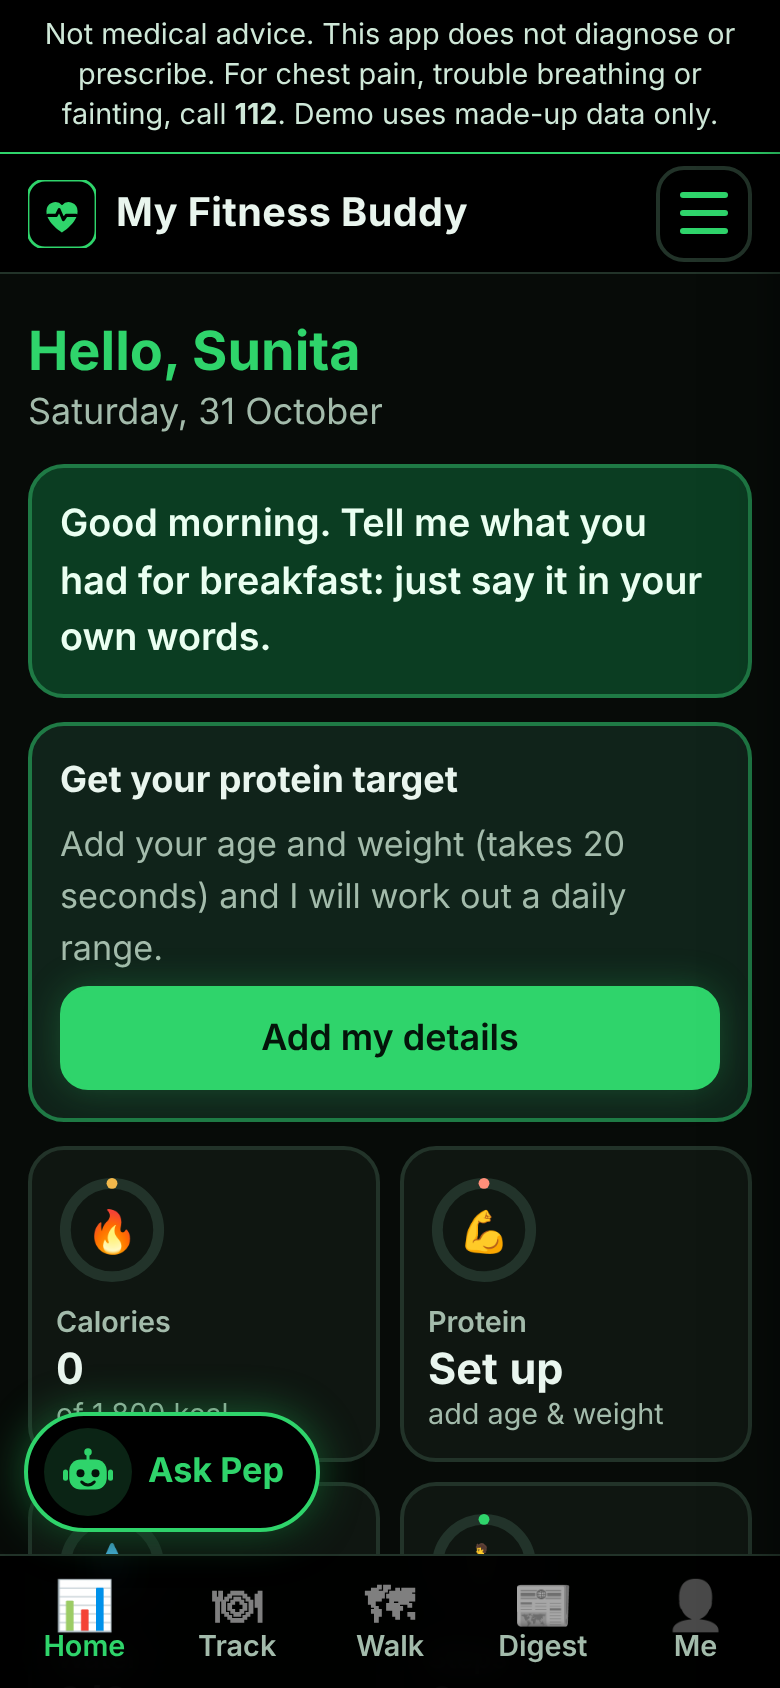
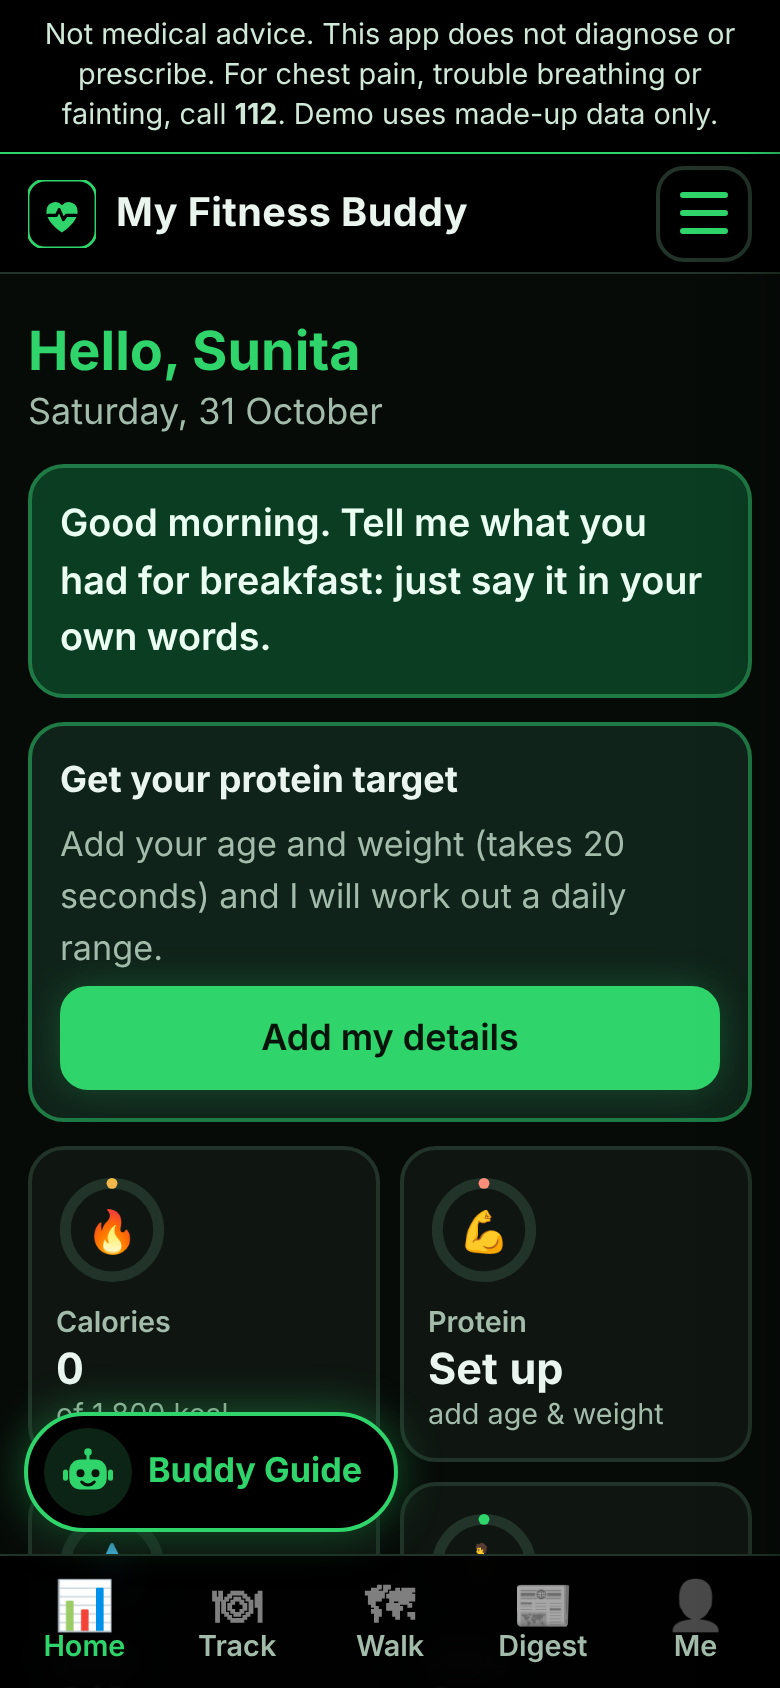
Rename chatbot to Buddy Guide
Claude-Session: https://claude.ai/code/session_01KefykX8PCZb4duXx1vCz83

Changed region(s): [[0.1846, 0.8318, 0.5231, 0.9242]]

diff --git a/index.html b/index.html
@@ -5,7 +5,7 @@
 <meta name="theme-color" content="#000000">
 <meta name="viewport" content="width=device-width,initial-scale=1">
 <title>My Fitness Buddy: your daily health companion</title>
-<meta name="description" content="Say your day in your own words. My Fitness Buddy logs it, adapts your walking goal, tracks steps, water, calories and protein, and nudges you gently. Chat with Pep, your AI health assistant.">
+<meta name="description" content="Say your day in your own words. My Fitness Buddy logs it, adapts your walking goal, tracks steps, water, calories and protein, and nudges you gently. Chat with Buddy Guide, your AI health assistant.">
 <link rel="stylesheet" href="vendor/leaflet/leaflet.css">
 <link rel="stylesheet" href="style.css">
 </head>
@@ -91,7 +91,7 @@
         <button id="q-water" type="button"><span>💧</span>+1 glass</button>
         <button id="q-steps" type="button"><span>🚶</span>+1,000 steps</button>
         <button id="q-log" type="button"><span>🍽</span>Log food</button>
-        <button id="q-ask" type="button"><span>🤖</span>Ask Pep</button>
+        <button id="q-ask" type="button"><span>🤖</span>Ask Guide</button>
       </section>
 
       <button class="card rewardtile" id="rewardcard" data-go="rewards" type="button"></button>
@@ -306,14 +306,14 @@
   <button data-go="me" type="button"><i>👤</i><span>Me</span></button>
 </nav>
 
-<button id="chat-fab" class="fab" type="button" aria-label="Open Pep, your AI health assistant" aria-expanded="false" aria-controls="chatpanel" hidden>
-  <span class="botlogo"><svg viewBox="0 0 48 48" aria-hidden="true" focusable="false"><rect x="4" y="22" width="4" height="9" rx="2" fill="#2fd46b"/><rect x="40" y="22" width="4" height="9" rx="2" fill="#2fd46b"/><path d="M24 11v3" stroke="#2fd46b" stroke-width="2.4" stroke-linecap="round"/><circle cx="24" cy="8" r="3" fill="#2fd46b"/><rect x="9" y="14" width="30" height="24" rx="9" fill="#2fd46b"/><circle cx="18" cy="25" r="3.2" fill="#04140a"/><circle cx="30" cy="25" r="3.2" fill="#04140a"/><path d="M19 32c1.4 1.6 3.2 2.4 5 2.4s3.6-.8 5-2.4" stroke="#04140a" stroke-width="2.4" fill="none" stroke-linecap="round"/></svg></span><span class="faglabel">Ask Pep</span>
+<button id="chat-fab" class="fab" type="button" aria-label="Open Buddy Guide, your AI health assistant" aria-expanded="false" aria-controls="chatpanel" hidden>
+  <span class="botlogo"><svg viewBox="0 0 48 48" aria-hidden="true" focusable="false"><rect x="4" y="22" width="4" height="9" rx="2" fill="#2fd46b"/><rect x="40" y="22" width="4" height="9" rx="2" fill="#2fd46b"/><path d="M24 11v3" stroke="#2fd46b" stroke-width="2.4" stroke-linecap="round"/><circle cx="24" cy="8" r="3" fill="#2fd46b"/><rect x="9" y="14" width="30" height="24" rx="9" fill="#2fd46b"/><circle cx="18" cy="25" r="3.2" fill="#04140a"/><circle cx="30" cy="25" r="3.2" fill="#04140a"/><path d="M19 32c1.4 1.6 3.2 2.4 5 2.4s3.6-.8 5-2.4" stroke="#04140a" stroke-width="2.4" fill="none" stroke-linecap="round"/></svg></span><span class="faglabel">Buddy Guide</span>
 </button>
 
 <section id="chatpanel" class="chatpanel" role="dialog" aria-modal="false" aria-labelledby="h-chat" hidden>
   <header class="cphead">
     <span class="botlogo big"><svg viewBox="0 0 48 48" aria-hidden="true" focusable="false"><rect x="4" y="22" width="4" height="9" rx="2" fill="#2fd46b"/><rect x="40" y="22" width="4" height="9" rx="2" fill="#2fd46b"/><path d="M24 11v3" stroke="#2fd46b" stroke-width="2.4" stroke-linecap="round"/><circle cx="24" cy="8" r="3" fill="#2fd46b"/><rect x="9" y="14" width="30" height="24" rx="9" fill="#2fd46b"/><circle cx="18" cy="25" r="3.2" fill="#04140a"/><circle cx="30" cy="25" r="3.2" fill="#04140a"/><path d="M19 32c1.4 1.6 3.2 2.4 5 2.4s3.6-.8 5-2.4" stroke="#04140a" stroke-width="2.4" fill="none" stroke-linecap="round"/></svg></span>
-    <div class="cptitle"><h2 id="h-chat">Pep <span class="role">AI health assistant</span></h2><span class="cpsub" id="cp-sub">Demo mode</span></div>
+    <div class="cptitle"><h2 id="h-chat">Buddy Guide <span class="role">AI health assistant</span></h2><span class="cpsub" id="cp-sub">Demo mode</span></div>
     <button id="chat-clear" class="ghost mini" type="button">Clear</button>
     <button id="chat-close" class="mini" type="button" aria-label="Close assistant">✕</button>
   </header>

diff --git a/api/ask.js b/api/ask.js
@@ -4,7 +4,7 @@
 const E = require('../engine.js');
 const MODEL = process.env.CLAUDE_MODEL || 'claude-haiku-5-5';
 
-const SYSTEM = `You are Pep, the friendly question-answering helper inside "My Fitness Buddy", a daily health-habit app for older adults.
+const SYSTEM = `You are Buddy Guide, the friendly question-answering helper inside "My Fitness Buddy", a daily health-habit app for older adults.
 Scope: water, walking (steps, distance, minutes), calories and protein logged today (always rough ranges, never exact; if no protein_target_g is available say the profile is incomplete), simple food/portion questions, and the person's own day. Use the tools to read the person's data whenever a question is about THEIR day, goal or progress; never guess their numbers.
 HARD RULES: never diagnose or name a disease they might have; never advise on medicines, insulin or doses; never say a symptom is harmless; for medical or condition-specific questions say you cannot advise and suggest their doctor or a dietitian; any emergency sign (chest pain, trouble breathing, fainting, one-sided weakness, severe bleeding) means: call 112 now.
 Style: plain English, at most 3 short sentences, no lists, no emoji, no lectures. If you do not know, say so briefly.`;

diff --git a/style.css b/style.css
@@ -175,7 +175,7 @@ select{width:100%;font:inherit;padding:12px;border:2px solid var(--line);border-
 .cptitle{flex:1;min-width:0}.cptitle h2{margin:0;font-size:1.05rem;line-height:1.2}.cpsub{display:block;font-size:.8rem;color:var(--mut);line-height:1.3}
 .chatpanel .chatlog{flex:1;max-height:none;min-height:0}
 .chatpanel .chatlog:empty{display:flex;flex:1}
-.chatpanel .chatlog:empty::before{content:"Hi, I'm Pep! I can read your day and answer simple questions about water, steps, food and protein.";color:var(--mut);padding:10px;font-size:.95rem}
+.chatpanel .chatlog:empty::before{content:"Hi, I'm Buddy Guide! I can read your day and answer simple questions about water, steps, food and protein.";color:var(--mut);padding:10px;font-size:.95rem}
 .chatpanel .chips{margin:4px 0}.chatpanel .chips button{min-height:40px}
 .cpform{margin-top:4px}
 .msg.bot{position:relative}
@@ -215,3 +215,4 @@ select{width:100%;font:inherit;padding:12px;border:2px solid var(--line);border-
 .plan ul{margin:2px 0 4px;padding-left:1.1em;color:var(--mut);font-size:.95rem}
 
 .cptitle h2 .role{display:block;font-size:.8rem;font-weight:500;color:var(--mut);white-space:normal}
+.cphead .mini{padding:4px 9px}.cphead{gap:8px}

diff --git a/REPORT.md b/REPORT.md
@@ -78,7 +78,7 @@
 | F05 | Progress tracker | **Build now** (water/walk/food tiles) | Fasting tracker, supplements and reward points: **Never** (selling products to patients is a conflict of interest) |
 | F06 | Sleep tracking | **Later** | Not in the customer's doctor's advice; adds input burden |
 | F07 | Challenges, motivational videos | **Never** | Licensing (D09), and streak pressure is a known churn/guilt cause |
-| F08 | AI health coach chatbot | **Build now, reshaped** | A floating bot button on the left of every screen opens "Pep", the AI assistant, a short-answer assistant that reads the user's own day; it is not an open chat, never diagnoses, and sends emergencies to 112 |
+| F08 | AI health coach chatbot | **Build now, reshaped** | A floating bot button on the left of every screen opens "Buddy Guide", the AI assistant, a short-answer assistant that reads the user's own day; it is not an open chat, never diagnoses, and sends emergencies to 112 |
 | F09 | Catch-up planning | **Build now, softened** | Missed walk shrinks tomorrow's goal instead of punishing |
 | F10 | Reports | **Build now (minimal)** | One-tap WhatsApp daily summary instead of PDFs |
 | F11 | Wearables | **Later** | D05 clunky; her phone and her voice suffice |

diff --git a/README.md b/README.md
@@ -2,7 +2,7 @@
 
 **Live app:** `TODO: paste your deployed link here` (Vercel = live AI + demo fallback; GitHub Pages = demo mode only)
 
-Say your day in plain English ("2 roti, dal, ek glass paani, 15 min walk"). The AI turns it into a log, adapts your walking goal to what you actually do, and nudges you at the right time. No forms, no sign-up, nothing to install.
+Say your day in plain English ("2 roti, dal, 1 glass water, 15 min walk"). The AI turns it into a log, adapts your walking goal to what you actually do, and nudges you at the right time. Ask **Buddy Guide**, the AI assistant (the bot button on the left of every screen), about your water, steps, food and protein. No forms, no sign-up, nothing to install.
 
 > Not medical advice. Made-up data only. The app never diagnoses or prescribes and sends red-flag symptoms to 112.
 
